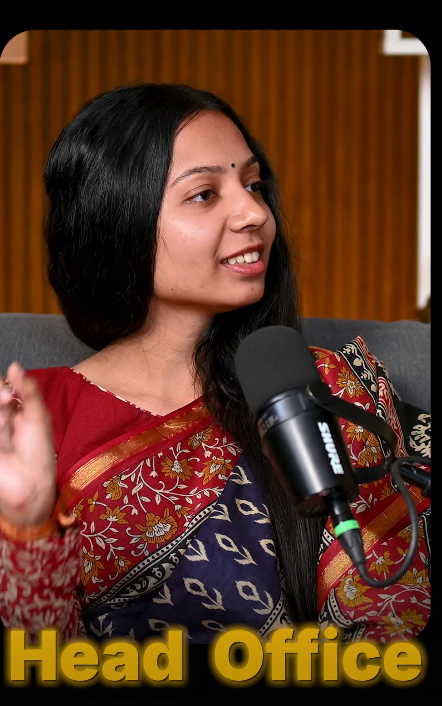
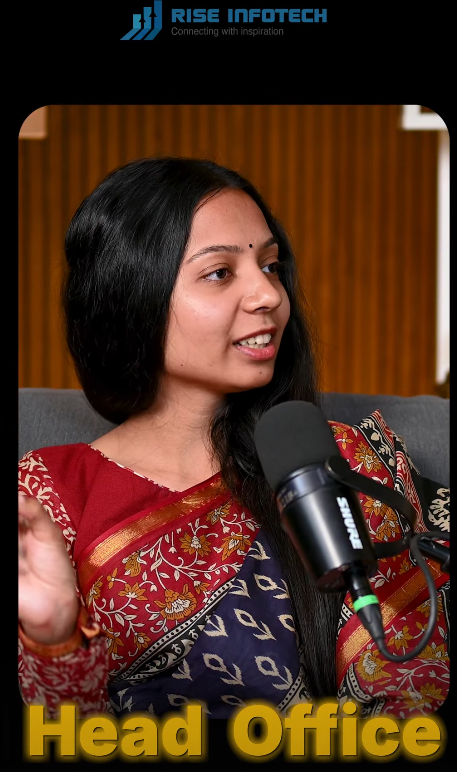
changes done by saturdy

diff --git a/app/components/sections/About.tsx b/app/components/sections/About.tsx
@@ -32,16 +32,13 @@ export default function About() {
   ];
 
   return (
-    <section
-      id="about"
-      className="relative bg-white py-12 md:py-16"
-    >
+    <section id="about" className="relative bg-white py-16 md:py-24">
       <div className="mx-auto max-w-[1300px] px-5 sm:px-6 lg:px-8">
 
-        <div className="grid items-start gap-12 lg:grid-cols-[45%_55%]">
+        <div className="grid items-start gap-12 lg:grid-cols-[44%_56%] lg:gap-16">
 
           {/* LEFT CONTENT */}
-          <div>
+          <div className="lg:sticky lg:top-24">
 
             <span className="inline-flex rounded-full border border-blue-200 bg-blue-50 px-4 py-2 text-xs font-medium uppercase tracking-wider text-blue-600">
               Executive Profile
@@ -54,74 +51,52 @@ export default function About() {
               </span>
             </h2>
 
-              {/* IMAGE */}
-            <div className="mt-6 overflow-hidden rounded-2xl border border-slate-200 shadow-sm">
+            {/* IMAGE */}
+            <div className="relative mt-7 overflow-hidden rounded-3xl border border-slate-200 shadow-[0_20px_45px_-15px_rgba(15,30,61,0.18)]">
+              <div className="relative h-[320px] w-full sm:h-[380px]">
+                <Image
+                  src="/assets/rise1.png"
+                  alt="Kumaresh Bidari at Rise Infotech"
+                  fill
+                  sizes="(min-width: 1024px) 45vw, 100vw"
+                  className="object-cover object-bottom"
+                />
+                {/* Gradient overlay for caption legibility */}
+                <div className="absolute inset-x-0 bottom-0 h-28 bg-gradient-to-t from-black/55 via-black/10 to-transparent" />
 
-              <Image
-                src=""
-                alt="Kumaresh Bidari at Rise Infotech"
-                width={800}
-                height={500}
-                className="h-[260px] w-full object-cover transition-transform duration-500 hover:scale-105"
-              />
-
+                {/* Caption */}
+                <div className="absolute inset-x-0 bottom-0 flex items-center justify-between px-5 py-4">
+                  <div>
+                    <p className="text-sm font-semibold text-white">Kumaresh Bidari</p>
+                    <p className="text-xs text-white/80">Founder & CEO, Rise Infotech</p>
+                  </div>
+                  
+                </div>
+              </div>
             </div>
 
-
-            <p className="mt-5 text-base leading-relaxed text-slate-600">
-              Kumaresh Bidari is an SAP S/4HANA Consultant, Corporate Trainer, and Founder & CEO of Rise Infotech with 10+ years of industry experience. Having worked with TCS, IBM, and NTT DATA, he has delivered SAP implementations, global rollouts, data migration, and digital transformation projects while mentoring thousands of aspiring SAP professionals.
-            </p>
-
-            <p className="mt-4 text-base leading-relaxed text-slate-600">
-              Having worked with TCS, IBM and NTT DATA, he has led SAP
-              implementations, global rollouts, migrations and digital
-              transformation initiatives while helping professionals build
-              successful SAP careers through Rise Infotech.
-            </p>
-
-            {/* STATS
-            <div className="mt-6 flex gap-4">
-
-              <div className="flex-1 rounded-xl border border-slate-200 bg-white p-4 shadow-sm transition-all duration-300 hover:-translate-y-1 hover:shadow-md">
-                <h3 className="text-2xl font-bold text-blue-600">
-                  10+
-                </h3>
-                <p className="mt-1 text-sm text-slate-500">
-                  Years SAP Consulting
-                </p>
-              </div>
-
-              <div className="flex-1 rounded-xl border border-slate-200 bg-white p-4 shadow-sm transition-all duration-300 hover:-translate-y-1 hover:shadow-md">
-                <h3 className="text-2xl font-bold text-blue-600">
-                  200+
-                </h3>
-                <p className="mt-1 text-sm text-slate-500">
-                  Career Placements
-                </p>
-              </div>
-
-            </div> */}
-
-          
+           <p className="mt-6 text-base leading-relaxed text-slate-600">
+  Kumaresh Bidari is an SAP S/4HANA Consultant, Corporate Trainer, and Founder & CEO of Rise Infotech with over 10 years of industry experience. Having worked with leading organizations including TCS, IBM, and NTT DATA, he has successfully delivered SAP implementations, global rollouts, data migration, and digital transformation initiatives while mentoring aspiring SAP professionals through practical, real-time training programs and helping them build successful careers in SAP S/4HANA.
+</p>
           </div>
 
           {/* RIGHT TIMELINE */}
           <div className="relative">
 
             {/* Timeline Line */}
-            <div className="absolute left-4 top-0 hidden h-full w-[2px] bg-slate-200 md:block" />
+            <div className="absolute left-4 top-2 hidden h-[calc(100%-1rem)] w-px bg-gradient-to-b from-blue-200 via-slate-200 to-transparent md:block" />
 
-            <div className="space-y-4">
+            <div className="space-y-5">
 
               {timeline.map((item, index) => (
                 <div
                   key={`${item.year}-${index}`}
-                  className="relative md:pl-14"
+                  className="group relative md:pl-14"
                 >
 
-                  {/* Desktop Year */}
-                  <div className="absolute left-0 top-1 hidden h-8 w-8 items-center justify-center rounded-full border border-blue-200 bg-white text-[10px] font-bold text-blue-600 shadow-sm md:flex">
-                    {item.year}
+                  {/* Desktop Year Node */}
+                  <div className="absolute left-0 top-1.5 z-10 hidden h-8 w-8 items-center justify-center rounded-full border-2 border-blue-200 bg-white text-[10px] font-bold text-blue-600 shadow-sm transition-colors duration-300 group-hover:border-blue-500 group-hover:bg-blue-600 group-hover:text-white md:flex">
+                    {item.year.slice(2)}
                   </div>
 
                   {/* Mobile Year */}
@@ -130,16 +105,19 @@ export default function About() {
                   </span>
 
                   {/* Timeline Card */}
-                  <div className="rounded-xl border border-slate-200 bg-white p-4 shadow-sm transition-all duration-300 hover:border-blue-200 hover:shadow-md">
-
-                    <h3 className="text-base font-semibold text-slate-900">
-                      {item.title}
-                    </h3>
+                  <div className="rounded-2xl border border-slate-200 bg-white p-5 shadow-sm transition-all duration-300 group-hover:-translate-y-0.5 group-hover:border-blue-200 group-hover:shadow-lg group-hover:shadow-blue-100/60">
+                    <div className="flex items-center justify-between gap-3">
+                      <h3 className="text-base font-semibold text-slate-900">
+                        {item.title}
+                      </h3>
+                      <span className="hidden text-xs font-medium text-blue-500 md:inline">
+                        {item.year}
+                      </span>
+                    </div>
 
                     <p className="mt-2 text-sm leading-relaxed text-slate-600">
                       {item.desc}
                     </p>
-
                   </div>
 
                 </div>

diff --git a/app/components/sections/Hero.tsx b/app/components/sections/Hero.tsx
@@ -105,22 +105,48 @@ export default function Hero() {
               animate="animate"
              className="mt-2 text-xs font-medium tracking-wide text-black sm:text-sm"
             >
-              SAP S/4HANA MM Consultant • Corporate Trainer
+              SAP S/4HANA Expert  Corporate Trainer
             </motion.p>
 
             {/* Heading */}
-           <motion.h1
+ <motion.h1
   variants={fadeUp(0.14)}
   initial="initial"
   animate="animate"
- className="mt-4 text-[20px] font-bold leading-[1.25] tracking-tight text-[#0f1e3d] sm:text-[24px] md:text-[28px] lg:text-[32px] xl:text-[38px]"
+  className="
+    mt-4
+    text-[20px]
+    font-bold
+    leading-[1.25]
+    tracking-tight
+    text-[#0f1e3d]
+    sm:text-[24px]
+    md:text-[28px]
+    lg:text-[32px]
+    xl:text-[38px]
+  "
 >
   Helping Enterprises Accelerate Growth Through{" "}
+
   <span className="relative inline-block">
-    <span className="relative z-100 bg-clip-text text-transparent">
+    <span className="bg-gradient-to-r from-blue-700 via-blue-600 to-sky-500 bg-clip-text text-transparent">
       SAP S/4HANA Transformation
     </span>
-    <span className="absolute -bottom-1 left-0 right-0 h-[3px] " />
+
+    {/* Underline */}
+    <span
+      className="
+        absolute
+        -bottom-1
+        left-0
+        h-[3px]
+        w-full
+        rounded-full
+        bg-gradient-to-r
+        from-blue-700
+        to-sky-500
+      "
+    />
   </span>
 </motion.h1>
 
@@ -156,7 +182,7 @@ export default function Hero() {
                   key={label}
                   className="rounded-3xl px-6 py-5 transition-all duration-500 hover:-translate-y-1 hover:bg-gradient-to-br hover:from-blue-50 hover:to-white hover:shadow-xl hover:shadow-blue-100"
                 >
-                  <div className="bg-gradient-to-r from-blue-700 via-blue-600 to-sky-500 bg-clip-text text-3xl font-bold text-transparent">
+                  <div className="bg-gradient-to-r from-blue-700 via-blue-600 to-sky-500 bg-clip-text text-2xl font-bold text-transparent">
                     {value}
                   </div>
 

diff --git a/app/components/sections/reels.tsx b/app/components/sections/reels.tsx
@@ -5,32 +5,32 @@ import { FaInstagram, FaPlay } from "react-icons/fa";
 
 const reels = [
   {
-    title: "SAP Career Guidance",
+    title: "SAP MM Career Insights",
     description:
-      "Insights on building a successful SAP career and industry opportunities.",
-    image: "",
-    link: "https://www.instagram.com/reel/DYEEtnfRCp6/",
+      "Learn how to build a successful career in SAP S/4HANA MM with industry-oriented guidance and practical insights.",
+    image: "/assets/reel1.png",
+    link: "https://www.instagram.com/reel/DTj8VBlAL6x/",
   },
   {
-    title: "Enterprise Transformation",
+    title: "SAP Training & Learning",
     description:
-      "Understanding SAP implementation and digital transformation strategies.",
-    image: "",
-    link: "https://www.instagram.com/reel/DVfU1fEDYr-/",
+      "Explore real-time project-based SAP training approaches and professional growth opportunities.",
+    image: "/assets/reel2.png",
+    link: "https://www.instagram.com/reel/DThnqmaDIm3/",
   },
   {
-    title: "Industry Insights",
+    title: "Industry Experience & Consulting",
     description:
-      "Real-world consulting experience and SAP best practices.",
-    image: "",
+      "Gain insights into SAP consulting, implementation projects, and enterprise best practices.",
+    image: "/assets/reel3.png",
     link: "https://www.instagram.com/reel/DTdUd41DPD3/",
   },
   {
-    title: "Leadership & Growth",
+    title: "Leadership & Transformation",
     description:
-      "Professional growth, leadership mindset and business insights.",
-    image: "",
-    link: "https://www.instagram.com/reel/DO6lflxlEgq/",
+      "Thoughts on leadership, digital transformation, and building successful careers in SAP.",
+    image: "/assets/reel4.png",
+    link: "https://www.instagram.com/reel/DTAAkgql877/",
   },
 ];
 

diff --git a/app/components/sections/Showcase.tsx b/app/components/sections/Showcase.tsx
@@ -116,24 +116,28 @@ export default function RiseInfotech() {
                 Visit Website
               </a>
 
-              <a
-                href="#contact"
-                className="
-                  rounded-xl
-                  border
-                  border-slate-300
-                  px-7
-                  py-3
-                  text-center
-                  font-semibold
-                  text-slate-900
-                  transition-all
-                  duration-300
-                  hover:bg-slate-50
-                "
-              >
-                Contact Us
-              </a>
+             <a
+  href="https://www.riseinfotech.in/contact"
+  target="_blank"
+  rel="noopener noreferrer"
+  className="
+    rounded-xl
+    border
+    border-slate-300
+    px-7
+    py-3
+    text-center
+    font-semibold
+    text-slate-900
+    transition-all
+    duration-300
+    hover:border-blue-600
+    hover:bg-blue-50
+    hover:text-blue-700
+  "
+>
+  Contact Us
+</a>
 
             </div>
 

diff --git a/app/layout.tsx b/app/layout.tsx
@@ -15,11 +15,7 @@ export const metadata: Metadata = {
   google: "c-MttQHGvPyriLOVnHwJilbD4dRIiI2zRMLEf5lF5k4",
 },
 
-  icons: {
-    icon: "/favicon.ico",
-    shortcut: "/favicon.ico",
-    apple: "/favicon.ico",
-  },
+ 
 
   title: {
     default: "Kumaresh Bidari | Founder & CEO | SAP S/4HANA Consultant",
